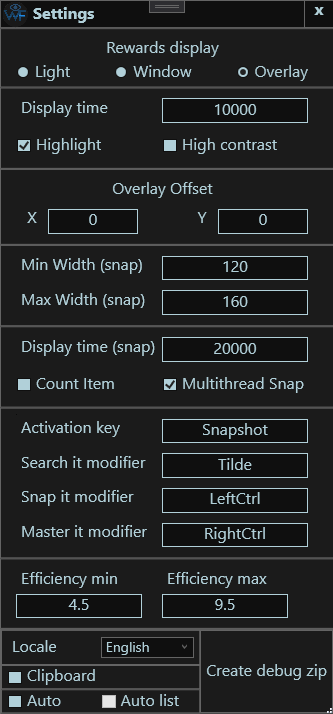
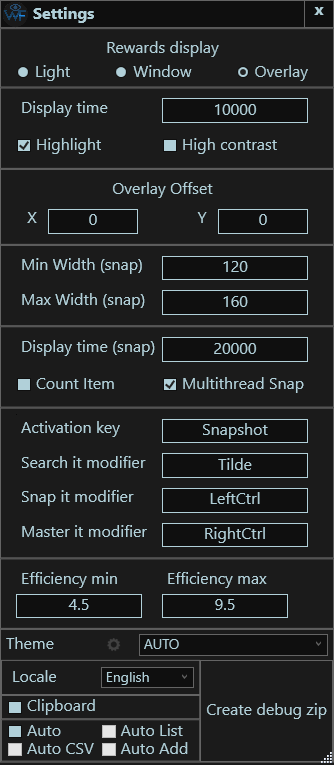
Update website for 9.6.0

Changed region(s): [[0.0, 0.0, 1.0, 1.0]]

diff --git a/docs/index.html b/docs/index.html
@@ -176,7 +176,8 @@
                             <li><a href="#" data-tab="tab-4">Snap-it options</a></li>
                             <li><a href="#" data-tab="tab-5">Activation hotkeys</a></li>
                             <li><a href="#" data-tab="tab-6">Snap-it efficiency</a></li>
-                            <li><a href="#" data-tab="tab-7">Miscellaneous</a></li>
+                            <li><a href="#" data-tab="tab-7">Theme options</a></li>
+                            <li><a href="#" data-tab="tab-8">Miscellaneous</a></li>
                         </ul>
                         <div class="tabs">
 
@@ -262,6 +263,22 @@
                             <div class="tab tab-7" style="justify-content:center">
                                 <div class="image highlight">
                                     <div class="image fit">
+                                        <img src="images/Settings/ThemeSettings.png" alt="" style="max-width:600px; margin-left: auto; margin-right: auto"/>
+                                    </div>
+                                    <p class="caption">
+                                        Useful in cases where you have issues with theme detection or the standard theme presets. </br>
+
+                                        Use dropdown menu to override the automatic theme detection. In most cases, this should be left on <code>AUTO</code> </br>
+
+                                        Use the cog (settings icon) to modify the <code>CUSTOM</code> theme option, if the standard options are insufficent
+                                    </p>
+                                </div>
+                            </div>
+
+                            <!-- Tab 8 -->
+                            <div class="tab tab-8" style="justify-content:center">
+                                <div class="image highlight">
+                                    <div class="image fit">
                                         <img src="images/Settings/Miscellaneous.png" alt="" style="max-width:600px; margin-left: auto; margin-right: auto"/>
                                     </div>
                                     <p class="caption">
@@ -269,10 +286,195 @@
                                         
                                         Clipboard will copy the results into your clipboard allowing you to paste it into the chat for other players (Ctrl + V)</br>
                                         
-                                        Auto list will only work with auto enabled, it wil spawn a listing screen whenever it detected rewards and an end of mission</br>
+                                        Auto List will only work with Auto enabled, it wil spawn a listing screen whenever it detected rewards and an end of mission</br>
+                                        
+                                        Auto CSV will only work with Auto enabled, it will record information about your reward choice in <code>%appdata%/WFInfo/rewardExport.csv</code></br>
+                                        
+                                        Auto Add will only work with Auto enabled, whenever it detected rewards and an end of mission, it will open an interface for increasing how many of the chosen reward you own according to WFInfo. 
+                                        See <code>Count Item</code> feature found under <code>Snap-it options</code></br>
                                         
                                         If you ever run into a problem running WFinfo then you might be asked by the developers for a "Debug zip", this contains information useful to the developers for debugging what went wrong.
                                         This button will generate a series of zip files that can be sent over discord (All are under 8mb)
+                                    </p>
+                                </div>
+                            </div>
+
+                        </div>
+                    </div>
+                </div>
+            </section>
+        </div>
+
+         <!-- theme adjuster guide  -->
+         <div id="themeAdjuster">
+            <section class="wrapper style2">
+                <div class="inner">
+                    <header>
+                        <h2>Theme Adjuster guide</h2>
+                        <p>Configuring WFInfo to work together with Colorblind mode and any other color-changing effects. 
+                            <br> Open by pressing the cog in the Theme section within the Settings menu
+                        </p>
+                    </header>
+                    <!-- Tabbed Video Section -->
+                    <div class="flex flex-tabs">
+                        <ul class="tab-list">
+                            <li><a href="#" data-tab="tab-1" class="active">Overview</a></li>
+                            <li><a href="#" data-tab="tab-2">Loading a test image</a></li>
+                            <li><a href="#" data-tab="tab-3">Enabling and testing a filter</a></li>
+                            <li><a href="#" data-tab="tab-4">Adjusting a filter: Part 1</a></li>
+                            <li><a href="#" data-tab="tab-5">Adjusting a filter: Part 2</a></li>
+                            <li><a href="#" data-tab="tab-6">Adjusting a filter: Part 3</a></li>
+                            <li><a href="#" data-tab="tab-7">Adjusting a filter: Part 4</a></li>
+                            <li><a href="#" data-tab="tab-8">Using your custom theme filter</a></li>
+                            <li><a href="#" data-tab="tab-9">Sharing and importing</a></li>
+                        </ul>
+                        <div class="tabs">
+
+                            <!-- Tab 1 -->
+                            <div class="tab tab-1 active" style="justify-content:center">
+                                <div class="image highlight">
+                                    <div class="image fit">
+                                        <img src="images/ThemeAdjuster/FullView.png" alt="" style="max-width:600px; margin-left: auto; margin-right: auto"/>
+                                    </div>
+                                    <p class="caption">
+                                        The left side of this window is used for viewing the results of your custom theme filter
+                                        <br> The right side contains everything for controlling this menu and your custom theme filter
+                                        <br> What each button does will be explained in the later steps
+                                    </p>
+                                </div>
+                            </div>
+
+                            <!-- Tab 2 -->
+                            <div class="tab tab-2" style="justify-content:center">
+                                <div class="image highlight">
+                                    <div class="image fit">
+                                        <img src="images/ThemeAdjuster/LoadButtons.png" alt="" style="max-width:600px; margin-left: auto; margin-right: auto"/>
+                                    </div>
+                                    <p class="caption">
+                                        To configure a theme properly, we need an image to test it on. 
+                                        <br> If you have recently tried using the reward screen scanning or snap-it feature, click <code>Load Last Use</code> to use it for testing. 
+                                        <br> If you want to use some other image instead, click <code>Load From File</code> and select which image you want to use.
+                                        <br>
+                                        <br> After using one of these buttons, the image will display on the left
+                                    </p>
+                                </div>
+                            </div>
+
+                            <!-- Tab 3 -->
+                            <div class="tab tab-3" style="justify-content:center">
+                                <div class="image highlight">
+                                    <div class="image fit">
+                                        <img src="images/ThemeAdjuster/EnableAndShow.png" alt="" style="max-width:600px; margin-left: auto; margin-right: auto"/>
+                                    </div>
+                                    <p class="caption">
+                                        There are 4 filters in total, two that use RGB for describing colours and two that use HSL. 
+                                        <br> To start off with, select one of these filters and click the checkbox to enable it. Which one you select isn't important
+                                        <br> RGB and HSL describe colours in different ways, which could affect how good of a filter you can make. If you can't get a good enough result with one, you should try using the other
+                                        <br>
+                                        <br> <code>Show Unfiltered</code>> can be pressed at any time to show your original test image
+                                        <br> <code>Apply Filter</code> can be pressed to apply the active filters. A pixel will be black if it was within the assigned range for all parameters for at least one of the enabled filters, otherwise it will be white
+                                    </p>
+                                </div>
+                            </div>
+
+                            <!-- Tab 4 -->
+                            <div class="tab tab-4" style="justify-content:center">
+                                <div class="image highlight">
+                                    <div class="image fit">
+                                        <img src="images/ThemeAdjuster/AdjustExample1.png" alt="" style="max-width:600px; margin-left: auto; margin-right: auto"/>
+                                    </div>
+                                    <p class="caption">
+                                        Here, I picked Primary HSL Filter and have resized the window to better see what the filter will be doing. The image in this example is using the Vitruvian theme with Tritanopia colorblind compensation
+                                        <br>
+                                        <br> I am now going to do the following:
+                                        <br> 1. Adjust one of the sliders, in this example I will be changing Primary Hue Max to about half. You can also write a number in the corresponding textbox, using <code>.</code> for decimals
+                                        <br> 2. Click <code>Apply Filter</code>
+                                    </p>
+                                </div>
+                            </div>
+
+                            <!-- Tab 5 -->
+                            <div class="tab tab-5" style="justify-content:center">
+                                <div class="image highlight">
+                                    <div class="image fit">
+                                        <img src="images/ThemeAdjuster/AdjustExample2.png" alt="" style="max-width:600px; margin-left: auto; margin-right: auto"/>
+                                    </div>
+                                    <p class="caption">
+                                        As we can see, the text is still black in this image, but so is a lot of other things. For you, the entire image may be black!
+                                        <br>
+                                        <br> We will now repeat this process, trying to find when the text switches from black to white
+                                    </p>
+                                </div>
+                            </div>
+
+                            <!-- Tab 6 -->
+                            <div class="tab tab-6" style="justify-content:center">
+                                <div class="image highlight">
+                                    <div class="image fit">
+                                        <img src="images/ThemeAdjuster/AdjustExample3.png" alt="" style="max-width:600px; margin-left: auto; margin-right: auto"/>
+                                    </div>
+                                    <p class="caption">
+                                        After adjusting and applying the filter a few times, this time the text turned white!
+                                        <br> I know I'm close to the correct value for what I'm adjusting right now, so I'll adjust it just a bit more and it should be perfect!
+                                    </p>
+                                    <div class="image fit">
+                                        <img src="images/ThemeAdjuster/AdjustExample4.png" alt="" style="max-width:600px; margin-left: auto; margin-right: auto"/>
+                                    </div>
+                                    <p class="caption">
+                                        There we go! Time to repeat the process for each of the other sliders. Don't forget that the min value should always be lower than its corresponding max value
+                                        <br>
+                                        <br> You may notice the text for Pyrana Prime Barrel in the bottom-right corner is still white. We'll cover that later
+                                    </p>
+                                </div>
+                            </div>
+
+                            <!-- Tab 7 -->
+                            <div class="tab tab-7" style="justify-content:center">
+                                <div class="image highlight">
+                                    <div class="image fit">
+                                        <img src="images/ThemeAdjuster/AdjustExample5.png" alt="" style="max-width:600px; margin-left: auto; margin-right: auto"/>
+                                    </div>
+                                    <p class="caption">
+                                        After adjusting all the other values, and this filter turned out very well.
+                                        <br>
+                                        <br> However, the Pyrana Prime Barrel in the bottom-right corner isn't visible. Why is that?
+                                        <br> In the original image, I was hovering over the Pyrana Prime Barrel. The game uses a different color for this, so we'll need to use a second filter.
+                                        <br> To do this, simply enable another one of the filter options and repeat the adjustment steps, this time focusing on just the text for the hovered item.
+                                    </p>
+                                    <div class="image fit">
+                                        <img src="images/ThemeAdjuster/AdjustExample6.png" alt="" style="max-width:600px; margin-left: auto; margin-right: auto"/>
+                                    </div>
+                                    <p class="caption">
+                                        Now this filter is complete, and ready for use!
+                                        <br> This example turned out really well. Even if you get a lot more noise than this, it can still be enough for WFInfo to work well.
+                                    </p>
+                                </div>
+                            </div>
+
+                            <!-- Tab 8 -->
+                            <div class="tab tab-8" style="justify-content:center">
+                                <div class="image highlight">
+                                    <div class="image fit">
+                                        <img src="images/ThemeAdjuster/ThemeOverride.png" alt="" style="max-width:600px; margin-left: auto; margin-right: auto"/>
+                                    </div>
+                                    <p class="caption">
+                                        Once you're done adjusting your custom filter, simply select <code>CUSTOM</code> in the Theme section of the settings menu
+                                    </p>
+                                </div>
+                            </div>
+
+                            <!-- Tab 9 -->
+                            <div class="tab tab-9" style="justify-content:center">
+                                <div class="image highlight">
+                                    <div class="image fit">
+                                        <img src="images/ThemeAdjuster/ImportExport.png" alt="" style="max-width:600px; margin-left: auto; margin-right: auto"/>
+                                    </div>
+                                    <p class="caption">
+                                        To share your newly customized filter with someone, click <code>Export Filter</code>. 
+                                        <br> The exported filter will appear in the text box above the buttons. 
+                                        <br>
+                                        <br> To import a filter, clear the textbox above the buttons, paste the filter into the text box above the button and click <code>Import Filter</code>
+                                        <br> <b>Importing a filter will delete your old filter</b>
                                     </p>
                                 </div>
                             </div>
@@ -398,6 +600,29 @@
                         <h2>WFInfo change log</h2>
                         <p>What was added in the latest releases?</p>
                     </header>
+
+                    <div class="inner" id="9.6.0">
+                        <div class="align-center">
+                            <h2 style="margin-bottom: 0px">9.6.0</h2>
+                        </div>
+                        <div class="flex flex-2">
+                            <div class="image col">
+                                <p class="caption">
+                                    Improve performance of searching equipment window
+                                    <br> Show set price on overlay
+                                    <br> Added Auto-CSV and Auto-Add
+                                    <br> Detect game close and reopen
+                                </p>
+                            </div>
+                            <div class="image col">
+                                <p class="caption">
+                                    Added limited GeForce Now support
+                                    <br> Added option to override theme detection
+                                    <br> Added Theme Adjuster, allowing manual configuration to support colorblind mode and any other color-changing effects
+                                </p>
+                            </div>
+                        </div>
+                    </div>
 
                     <div class="inner" id="9.5.6">
                         <div class="align-center">
